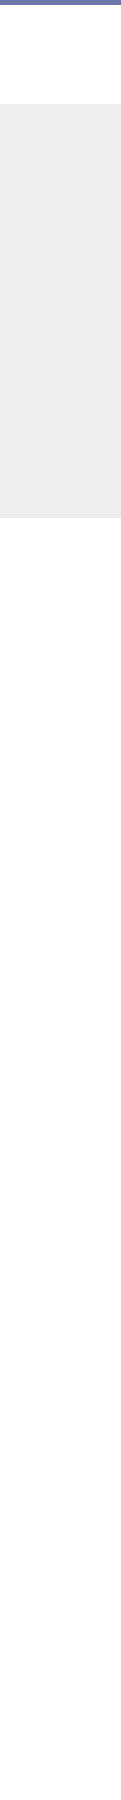
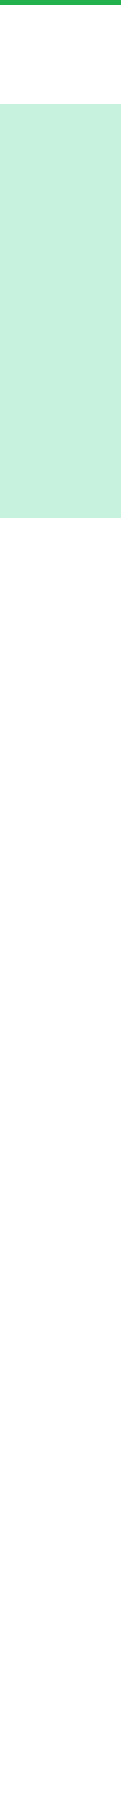
22/03

Changed region(s): [[0.0, 0.0311, 1.0, 0.3111]]

diff --git a/projetoUNES/disciplinas.html b/projetoUNES/disciplinas.html
@@ -24,54 +24,91 @@
      	   <td colspan="2" align="center">	
 		     	<table border="1">
 			    	<tr>
-			    		<th>1º Semestre</th>
-			    		<th>2º Semestre</th>
-			    		<th>3º Semestre</th>
-			    		<th>4º Semestre</th>
-			    		<th>5º Semestre</th>
-			    		<th>6º Semestre</th>
+			    		<th bgcolor="#8B4513">1º Semestre</th>
+			    		<th bgcolor="#8B4513">2º Semestre</th>
+			    		<th bgcolor="#8B4513">3º Semestre</th>
+			    		<th bgcolor="#8B4513">4º Semestre</th>
+			    		<th bgcolor="#8B4513">5º Semestre</th>
+			    		<th bgcolor="#8B4513">6º Semestre</th>
 			    	</tr>
 			    	<tr>
-			    		<td align="center">Projeto integredor de programação</td>
-			    		<td align="center">Projeto integrador de IoT</td>
-			    		<td align="center">Projeto integrador de IoT 2</td>
-			    		<td align="center">Projeto integrador de Redes e Infa</td>
-			    		<td align="center">Projeto integrador de arquiteturas cloud</td>
-			    		<td align="center">Projeto integrador de Big Data</td>
+			    		<td align="center" bgcolor="#32CD32">Projeto integrador de programação</td>
+			    		<td align="center" bgcolor="#32CD32">Projeto integrador de IoT</td>
+			    		<td align="center" bgcolor="#32CD32">Projeto integrador de IoT 2</td>
+			    		<td align="center" bgcolor="#32CD32">Projeto integrador de Redes e Infra</td>
+			    		<td align="center" bgcolor="#32CD32">Projeto integrador de arquiteturas cloud</td>
+			    		<td align="center" bgcolor="#32CD32">Projeto integrador de Big Data</td>
 			    	</tr>
 			    	<tr>
-			    		<td align="center">Lógica de programação</td>
-			    		<td align="center">Internet das coisas (IoT)</td>
-			    		<td align="center">Banco de dados</td>
-			    		<td align="center">Redes de computadores</td>
-			    		<td align="center">Banco de dados NoSql</td>
-			    		<td align="center" rowspan="2">Arquitetura de APIs</td>
+			    		<td align="center" bgcolor="#32CD32">Lógica de programação</td>
+			    		<td align="center" bgcolor="#32CD32">Internet das coisas (IoT)</td>
+			    		<td align="center" bgcolor="#32CD32">Banco de dados</td>
+			    		<td align="center" bgcolor="#32CD32">Redes de computadores</td>
+			    		<td align="center" bgcolor="#32CD32">Banco de dados NoSql</td>
+			    		<td align="center" rowspan="2" bgcolor="#32CD32">Arquitetura de APIs</td>
 			    	</tr>
 			    	<tr>
-			    		<td align="center">Introdução a Big Data</td>
-			    		<td align="center" rowspan="2">Java 1 - Orientação ao Objeto</td>
-			    		<td align="center" rowspan="2">Java 2 - Sistemas Web</td>
-			    		<td align="center" rowspan="2">Web Semântica</td>
-			    		<td align="center">Gestão de dados</td>
+			    		<td align="center" bgcolor="#32CD32">Introdução a Big Data</td>
+			    		<td align="center" rowspan="2" bgcolor="#32CD32">Java 1 - Orientação ao Objeto</td>
+			    		<td align="center" rowspan="2" bgcolor="#32CD32">Java 2 - Sistemas Web</td>
+			    		<td align="center" rowspan="2" bgcolor="#32CD32">Web Semântica</td>
+			    		<td align="center" bgcolor="#32CD32">Gestão de dados</td>
 			    	</tr>
 			    	<tr>
-			    		<td align="center">Produção vegetal de culturas anuais</td>
-			    		<td align="center">Introdução ao Data Mining</td>
-			    		<td align="center" rowspan="2">Inteligência Artificial</td>
+			    		<td align="center" bgcolor="#228B22">Produção vegetal de culturas anuais</td>
+			    		<td align="center" bgcolor="#32CD32">Introdução ao Data Mining</td>
+			    		<td align="center" rowspan="2" bgcolor="#32CD32">Inteligência Artificial</td>
 			    	</tr>
 			    	<tr>
-			    		<td align="center">Sociedade, Tecnologia e Inovação</td>
-			    		<td align="center">Produção vegetal de culturas perenes e green houses</td>
-			    		<td align="center">Programação Front End</td>
-			    		<td align="center" rowspan="2">Algoritmos avançados</td>
-			    		<td align="center" rowspan="2">Arquitetura Cloud</td>
+			    		<td align="center" bgcolor="#E6E6FA">Sociedade, Tecnologia e Inovação</td>
+			    		<td align="center" bgcolor="#228B22">Produção vegetal de culturas perenes e green houses</td>
+			    		<td align="center" bgcolor="#32CD32">Programação Front End</td>
+			    		<td align="center" rowspan="3" bgcolor="#32CD32">Algoritmos avançados</td>
+			    		<td align="center" rowspan="2" bgcolor="#32CD32">Arquitetura Cloud</td>
+			    	</tr>
+			    	<tr>
+			    		<td align="center" bgcolor="#E6E6FA">Etica e valores</td>
+			    		<td align="center" rowspan="2" bgcolor="#FFFF00">Calculo</td>
+			    		<td align="center" bgcolor="#228B22">Manejamento agricolas de solo e semeadura</td>
+			    		<td align="center" rowspan="2" bgcolor="#32CD32">Aprendizado de maquina</td>
+			    	</tr>
+			    	<tr>
+			    		<td align="center" rowspan="2" bgcolor="#FFFF00">Matemática discreta</td>
+			    		<td align="center" rowspan="2" bgcolor="#FFFF00">Estatística</td>
+			    		<td align="center" rowspan="2" bgcolor="#32CD32">Projeto de Internet das coisas</td>
+			    	</tr>
+			    	<tr>
+			    		<td align="center" bgcolor="#D2691E">Fundamentos de gestão de projetos</td>
+			    		<td align="center" bgcolor="#228B22">Manejos agricolas de tratos culturais e colheita</td>
+			    		<td align="center" rowspan="2" bgcolor="#228B22">Laboratório de Big Data em agricultura</td>
+			    	</tr>
+			    	<tr>
+			    		<td align="center" bgcolor="#0000FF">Fundamentos de leitura e produção de textos</td>
+			    		<td align="center" bgcolor="#D2691E">Fundamentos de administração geral</td>
+			    		<td align="center" bgcolor="#FFFF00">Geometria Analítica</td>
+			    		<td align="center" bgcolor="#D2691E">Empredoderismo</td>
+			    		<td align="center" bgcolor="#228B22">Monitoramento de pragas e doenças</td>
+			    	</tr>
+			    	<tr>
+			    		<td align="center" bgcolor="#00FFFF" rowspan="2">Inglês 1</td>
+			    		<td align="center" bgcolor="#00FFFF" rowspan="2">Inglês 2</td>
+			    		<td align="center" bgcolor="#00FFFF" rowspan="2">Inglês 3</td>
+			    		<td align="center" bgcolor="#00FFFF" rowspan="2">Inglês 4</td>
+			    		<td align="center" bgcolor="#00FFFF" rowspan="2">Inglês 5</td>
+			    		<td align="center" bgcolor="#00FFFF" rowspan="2">Inglês 6</td>
 			    	</tr>
 		        </table>
 		   </td>     
-        </tr>
-     	
-     	
-
+        </tr> 	
+     </table>
+     <table border="0" width="900" align="center">
+     	<tr>
+     		
+		 <td align="center">
+			<img src="imagens/informativo.png">
+		 </td>
+	   
+     	</tr>
      </table>
 </body>
 </html>

diff --git a/projetoUNES/contato.html b/projetoUNES/contato.html
@@ -6,16 +6,42 @@
 	<title>Contato</title>
 </head>
 <body background="imagens/fundo.png">
-     <table border="1" width="900" align="center">
+     <table border="0" width="900" align="center">
      	<tr>
-     		<td><img src="imagens/logo.png"></td>
+     		<td height="89"><img src="imagens/logo.png"></td>
      		<td align="right">
      			<a href="index.html">Home</a>
                 <a href="disciplinas.html">Disciplinas</a>
                 <a href="contato.html">Contato</a>
      		</td>
      	</tr>
+          <tr>
+               <td colspan="2">
+                    <img src="imagens/poster.jpg">
+               </td>
+          </tr>
 
+     </table>
+
+     <table border="0" width="900" align="center">
+          <tr>    
+                <td>
+                    <h2>Entre em contato</h2>
+                </td>
+          </tr>
+          <tr>    
+                <td>
+                    <form>
+                         Seu Email: <br>
+                         <input type="text" name="email"><br>
+                         Assunto: <br>
+                         <input type="text" name="assunto"><br>
+                         Descrição: <br>
+                         <textarea></textarea><br>
+                         <input type="submit" value="enviar"><br>
+                    </form>
+                </td>
+          </tr>
      </table>
 </body>
 </html>

diff --git a/CSS3/inline_style.html b/CSS3/inline_style.html
@@ -1,0 +1,18 @@
+<!DOCTYPE html>
+<html>
+<head>
+	<meta charset="utf-8">
+	<meta name="viewport" content="width=device-width, initial-scale=1">
+	<title>CSS3 - inline style</title>
+</head>
+<body>
+	<h1 style="color: red;">Estilo CSS - Cascading style sheets</h1>
+    <p style="color: blue;">
+    	O estilo inline o estilo é aplicado diretamente na tag, não necessita de um arquivo de estilo,
+    	não é usual pois se precisar fazer modificações linha a linha e isso leva um tempo bem maior que
+    	quando utiliza um arquivo de estilo, que ao modificar somente o arquivo todas as tags estilizadas 
+    	modificam automaticamente. Pa fazer uma formatação você utiliza style="propriedade: valor" ex:
+    	style="color: red;"
+    </p>
+</body>
+</html>
